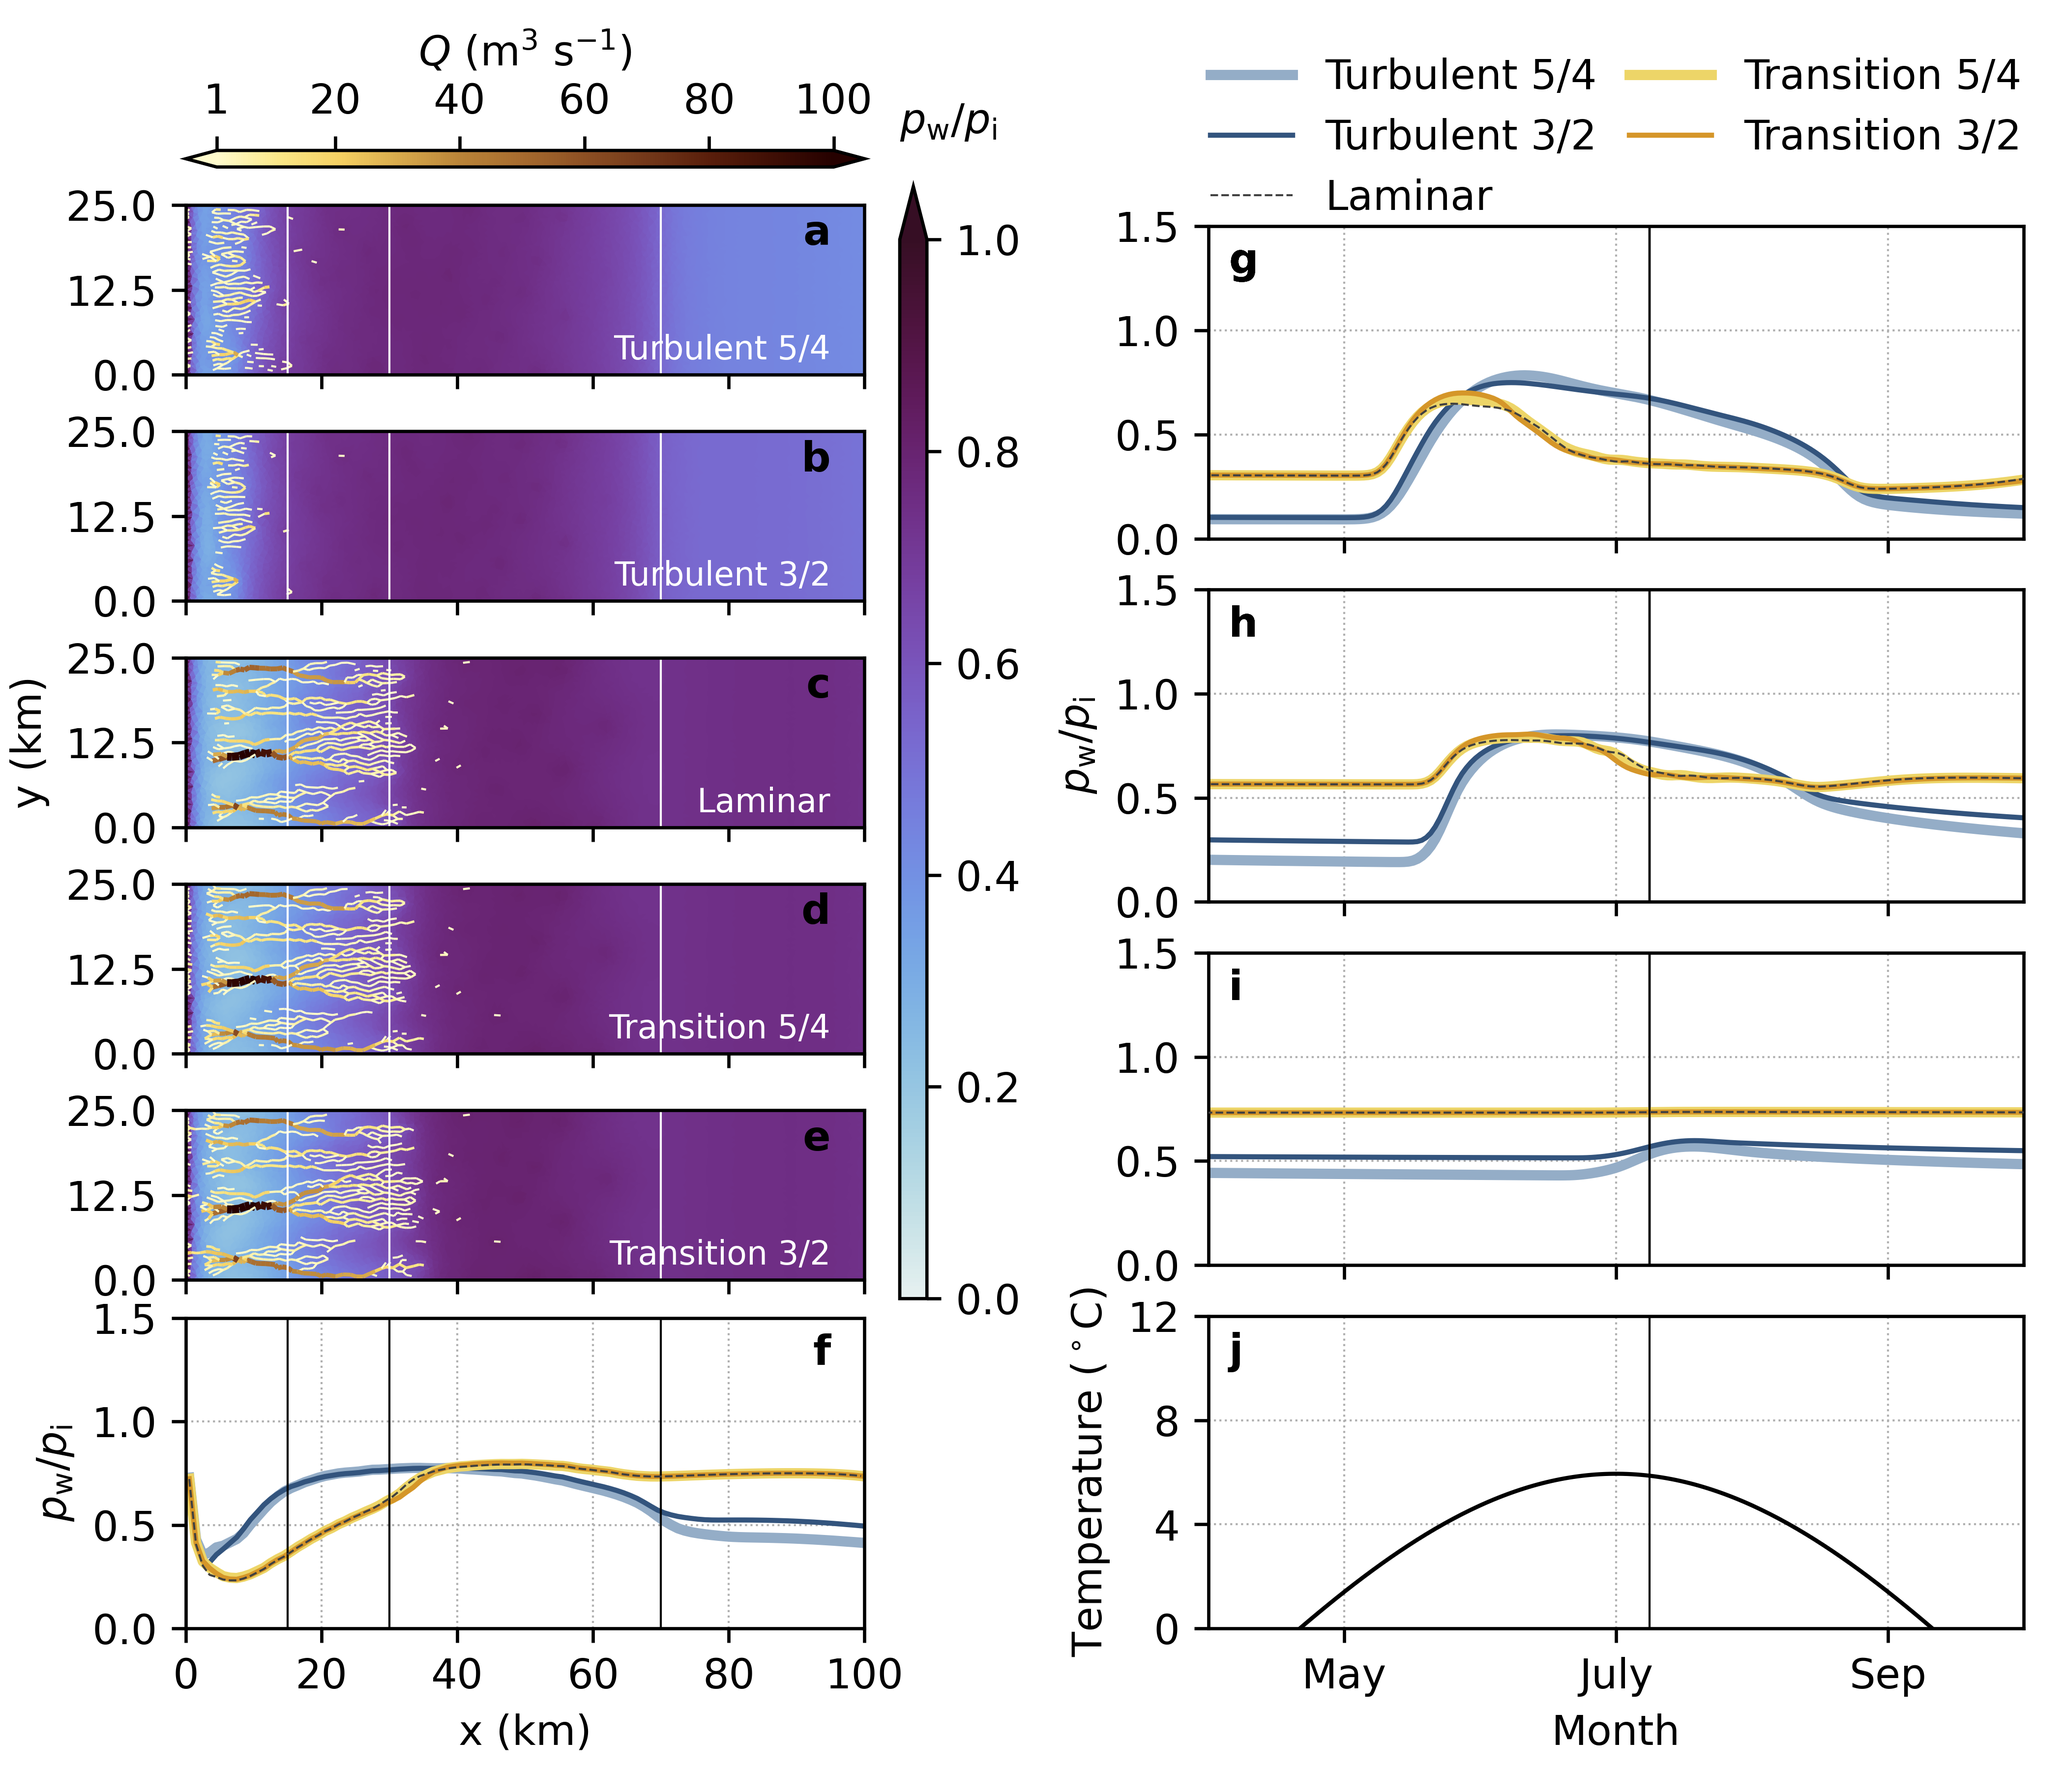
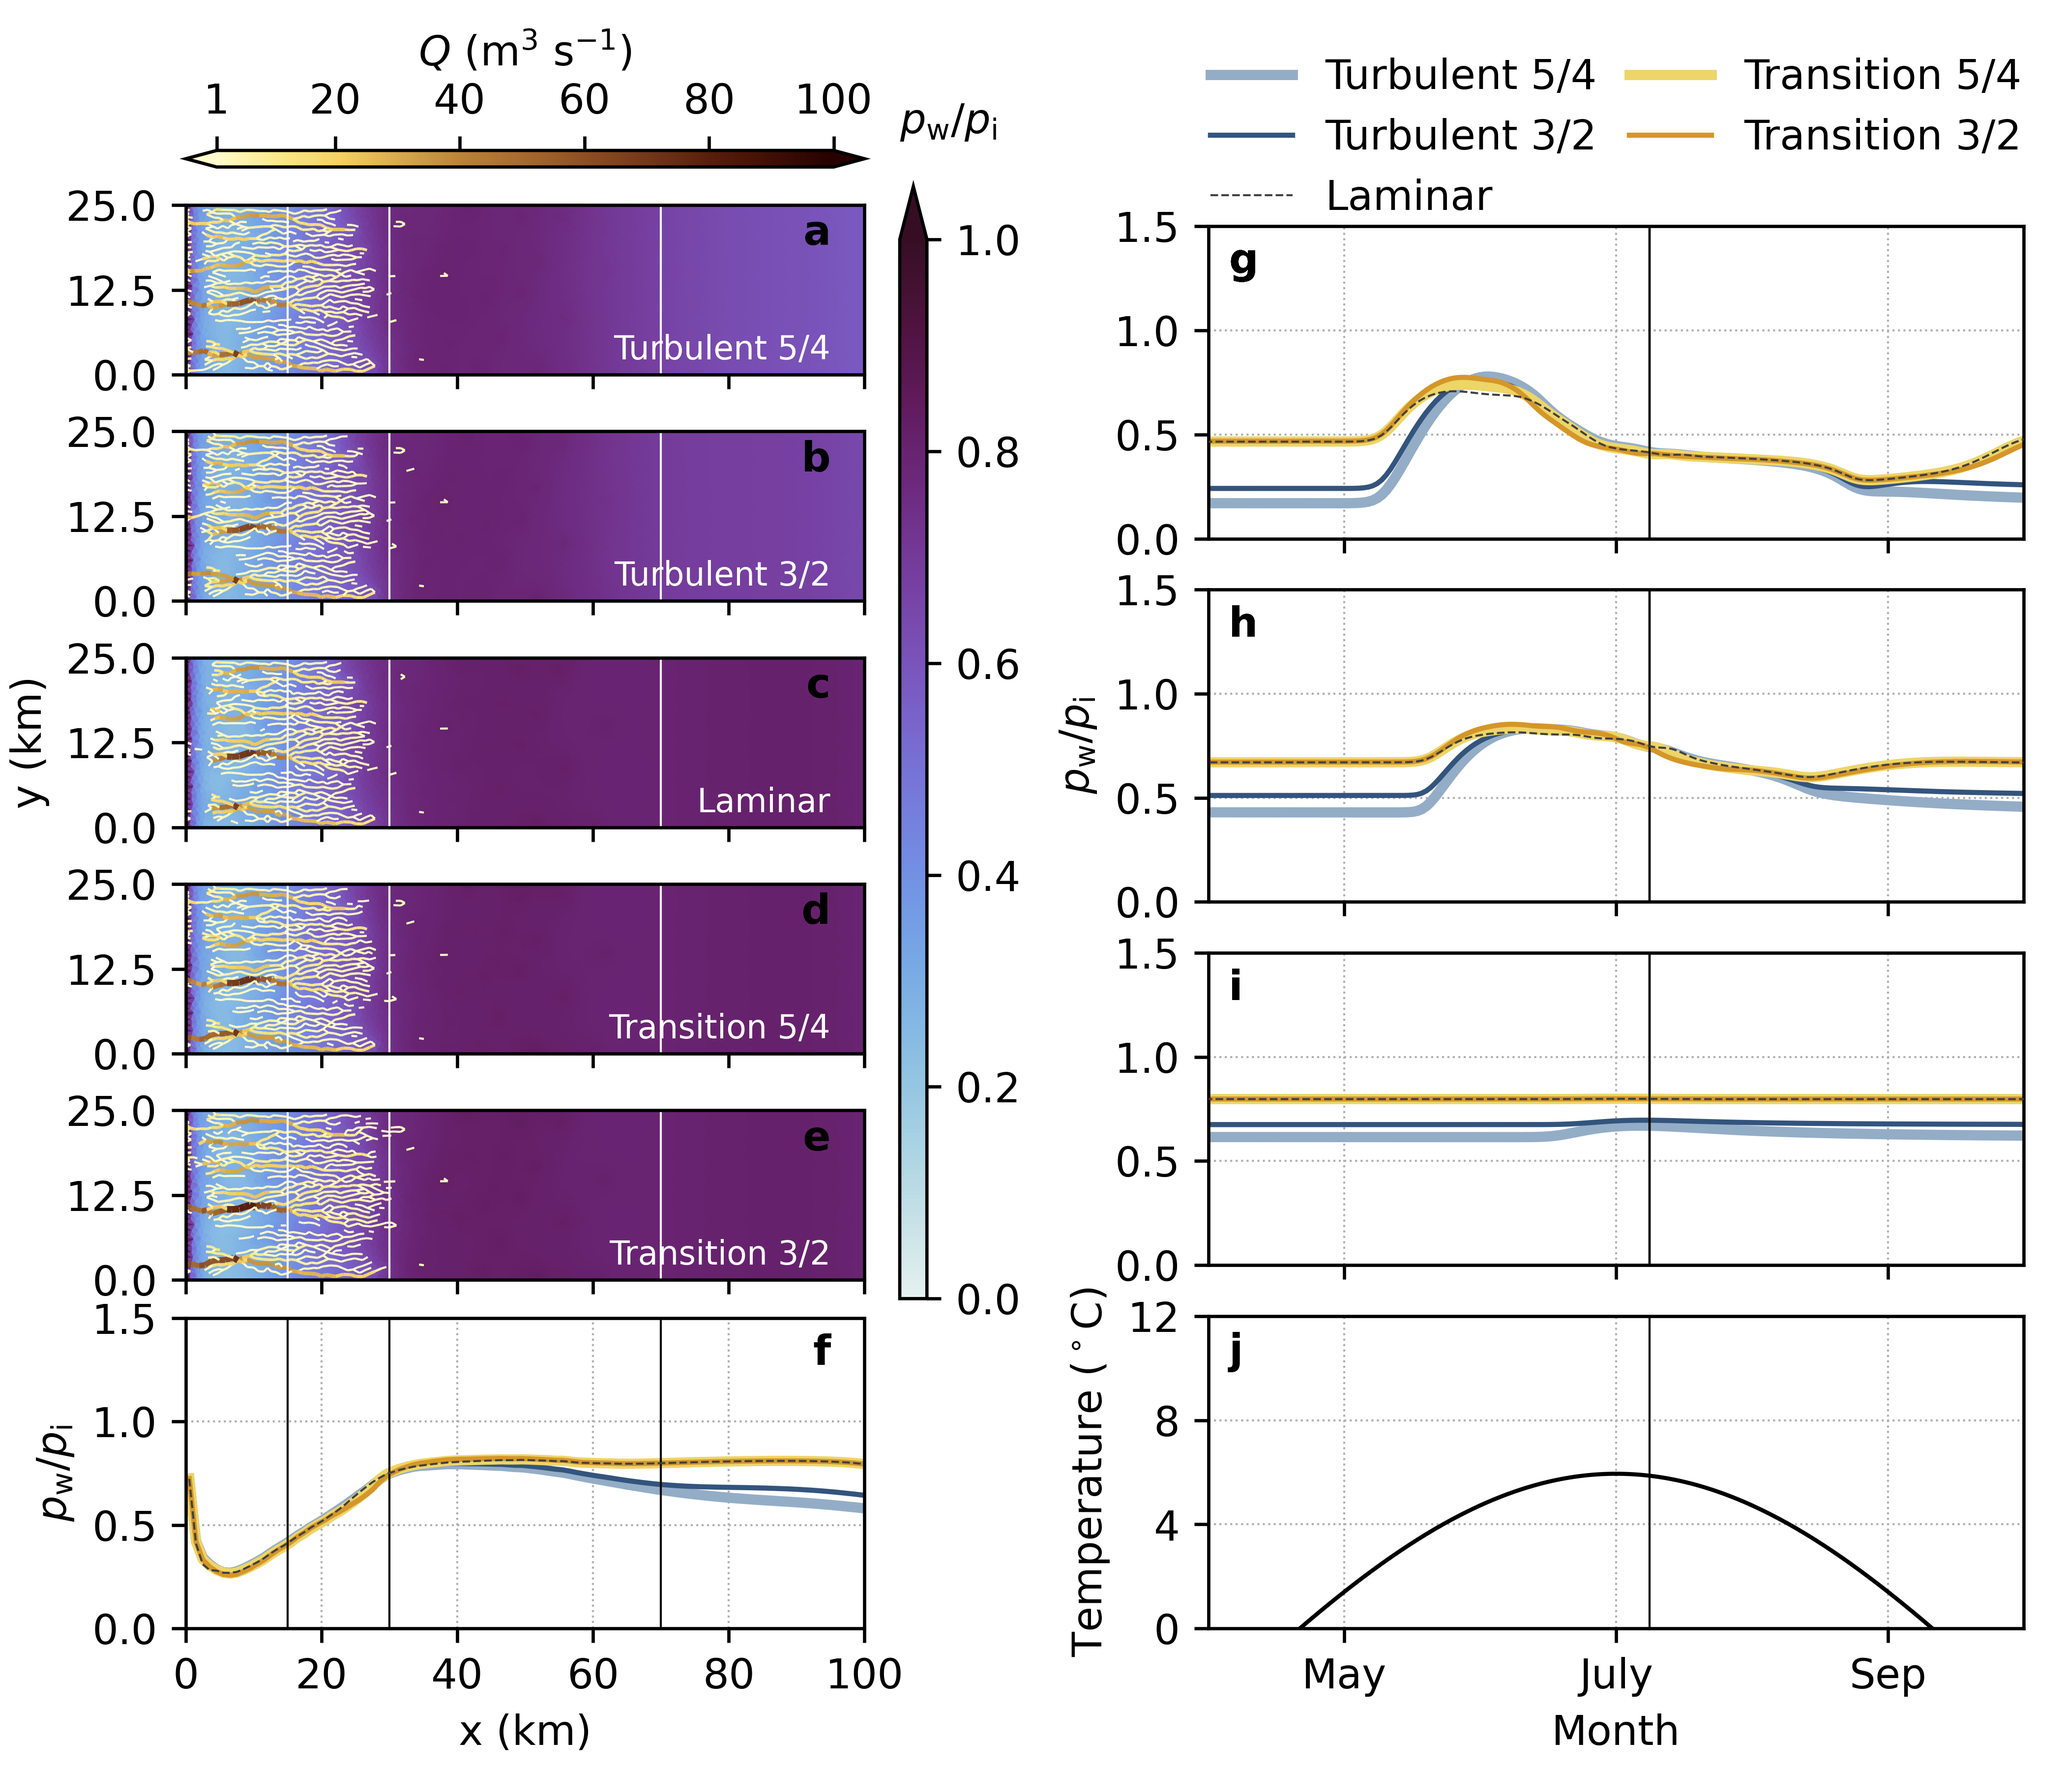
Figures

diff --git a/analysis/make_pressure_figs.py b/analysis/make_pressure_figs.py
@@ -32,33 +32,31 @@ synth_opts={'t_ticklabels':t_ticklabels[:-1],
 ## Case 00: Flat topo, synthetic forcing
 cases = [1, 2, 3, 4, 5]
 fnames = ['/home/tghill/scratch/laminar-turbulent/glads/00_synth_forcing/RUN/output_%03d_seasonal.nc'%caseid for caseid in cases]
-print(fnames)
 figname = 'figures/main/00_pressure_seasonal.png'
 fig_00 = plot_pressure_maps_timeseries(fnames, figname, melt_forcing='SHMIPadj', Qmin=1, Qmax=100,
     **synth_opts)
 
-"""
 ## Case 00a: Flat topo, standard SHMIP forcing
 cases = [1, 2, 3, 4, 5]
-fnames = ['../glads/00a_shmip_forcing/RUN/output_%03d_seasonal.nc'%caseid for caseid in cases]
+fnames = ['/home/tghill/scratch/laminar-turbulent/glads/00a_shmip_forcing/RUN/output_%03d_seasonal.nc'%caseid for caseid in cases]
 figname = 'figures/supplement/00a_pressure_seasonal_shmip_forcing.png'
 fig_00a = plot_pressure_maps_timeseries(fnames, figname, Qmin=10, Qmax=200, melt_forcing='SHMIP',
     **synth_opts)
 
 ## Case 00b: Flat topo, higher basal melt rate
 cases = [1, 2, 3, 4, 5]
-fnames = ['../glads/00b_synth_basalmelt/RUN/output_%03d_seasonal.nc'%caseid for caseid in cases]
+fnames = ['/home/tghill/scratch/laminar-turbulent/glads/00b_synth_basalmelt/RUN/output_%03d_seasonal.nc'%caseid for caseid in cases]
 figname = 'figures/aux/00b_pressure_seasonal_basalmelt.png'
 fig_00 = plot_pressure_maps_timeseries(fnames, figname, melt_forcing='SHMIPadj', Qmin=1, Qmax=100,
     **synth_opts)
 
 ## Case 00c: synthetic forcing, marine outlet
 cases = [1, 2, 3, 4, 5]
-fnames = ['../glads/00c_synth_marine/RUN/output_%03d_seasonal.nc'%caseid for caseid in cases]
+fnames = ['/home/tghill/scratch/laminar-turbulent/glads/00c_synth_marine/RUN/output_%03d_seasonal.nc'%caseid for caseid in cases]
 figname = 'figures/aux/00c_pressure_seasonal_marine.png'
 fig_00 = plot_pressure_maps_timeseries(fnames, figname, melt_forcing='SHMIPadj', Qmin=1, Qmax=100,
     **synth_opts)
-"""
+
 # =============================================================================
 ## KAN forcing suite
 

diff --git a/glads/00b_synth_basalmelt/run_job.m b/glads/00b_synth_basalmelt/run_job.m
@@ -1,4 +1,4 @@
-function pa = run_job(k_c, bump_scale, alpha, beta, omega, id)
+function pa = run_job(k_c, k_s, alpha, beta, omega, id)
 
 set_paths;
 addpath(genpath('../data/functions/'))
@@ -7,7 +7,7 @@ fname_steady = sprintf('output_%03d_steady.nc', id);
 fname_seasonal = sprintf('output_%03d_seasonal.nc', id);
 
 % Fixed parameters
-config.k_s = 0.1;	% Turbulent conductivity
+config.k_s = k_s;	% Turbulent conductivity
 config.l_c = 10;
 config.n_moulin = 68;
 config.creep_const_soft = 0;
@@ -16,6 +16,7 @@ config.e_v = 1e-4;
 
 % Tuning parameters
 config.k_c = k_c;
+bump_scale = 10;
 config.h_bed = bump_scale/20;
 config.l_bed = bump_scale;
 config.alpha = alpha;
@@ -45,7 +46,6 @@ para_steady = get_para_steady(config);
 para_steady.physical;
 pa = para_steady;
 run_model(para_steady);
-
- 
+  
 para_seasonal = get_para_seasonal(config);
 run_model(para_seasonal);
